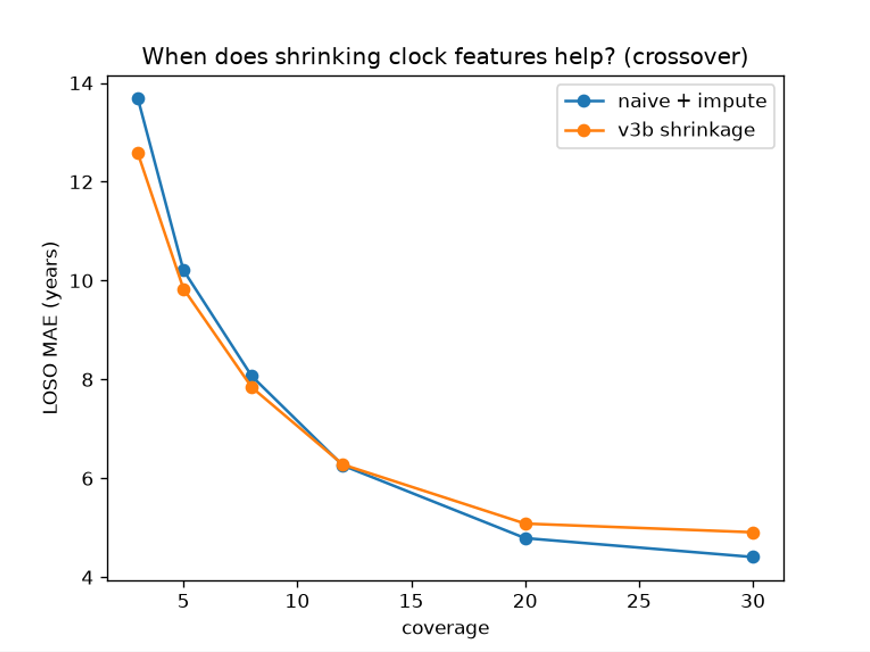
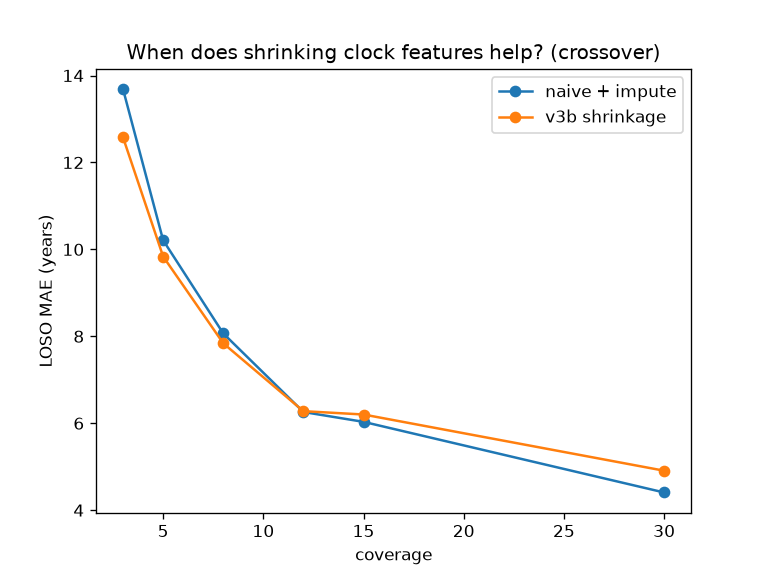
cleanup errors and refresh figures

diff --git a/benchmark.py b/benchmark.py
@@ -2,7 +2,6 @@ import numpy as np
 import matplotlib.pyplot as plt
 from simulate import simulate
 from estimators import estimate
-from estimators import impute_nans
 
 coverages = [3, 5, 8, 12, 15, 30]
 n_seeds = 50
@@ -14,7 +13,8 @@ for ci, c in enumerate(coverages):
                 data = simulate(seed=s, coverage=c)
                 u = data["n"] - data["m"]
                 for meth in methods:
-                        est = estimate(data["m"], u, meth)
+                        with np.errstate(divide="ignore", invalid="ignore"):
+                                est = estimate(data["m"], u, meth)
                         results[meth][ci, s] = np.mean(np.abs(est - data["true_p"]))
 
 for meth in methods:

diff --git a/crossover.py b/crossover.py
@@ -9,7 +9,6 @@ from sklearn.model_selection import cross_val_predict
 from sklearn.model_selection import LeaveOneGroupOut
 from simulate import simulate
 from estimators import estimate
-from estimators import impute_nans
 
 def naive_features(data):
     with np.errstate(invalid="ignore", divide="ignore"):
@@ -32,7 +31,7 @@ def loso_mae_years(X, data):
     return np.mean(np.abs(pred_years - data["age"]))
 
 
-coverages = [3, 5, 8, 12, 20, 30]
+coverages = [3, 5, 8, 12, 15, 30]
 nseeds = 3
 
 naive_maes, v3b_maes = [], []